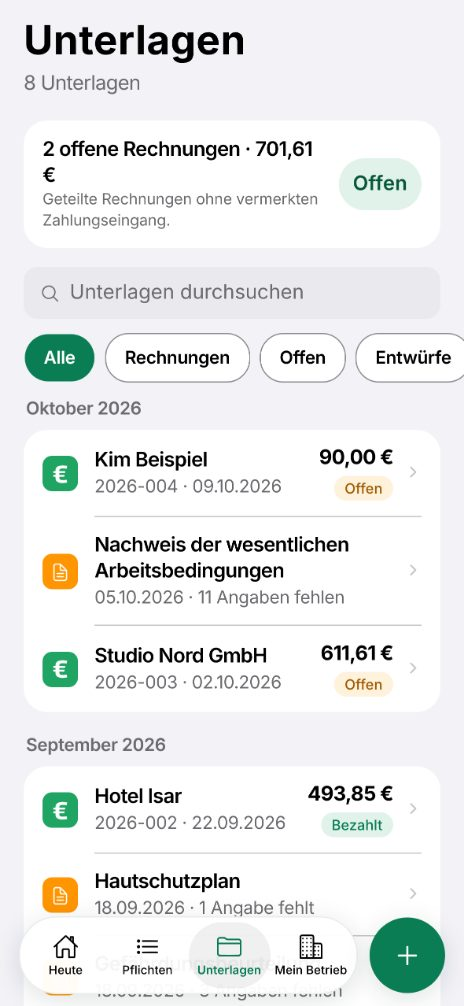
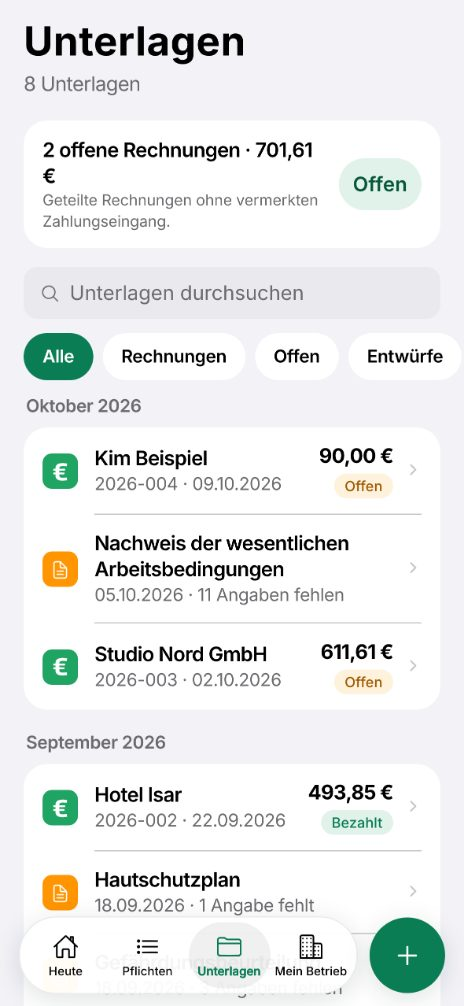
E-140 (2): Felder und Auswahl ohne Rahmen, Karten statt Bühnen, Einführungen wie in Apples Apps, Inter für die Web-Vorschau
Claude-Session: https://claude.ai/code/session_01WbXnSzce2P68GngQY2h6hr

diff --git a/apps/mobile/src/ui/bausteine.tsx b/apps/mobile/src/ui/bausteine.tsx
@@ -1,7 +1,7 @@
 import { Ionicons } from "@expo/vector-icons";
 import * as Haptics from "expo-haptics";
 import { SymbolView, type SymbolViewProps } from "expo-symbols";
-import { useEffect, useState, type ReactNode } from "react";
+import { createContext, useContext, useEffect, useState, type ReactNode } from "react";
 import { AccessibilityInfo, ActivityIndicator, Pressable, Text as RNText, Switch, TextInput, View, type StyleProp, type TextStyle, type ViewStyle } from "react-native";
 import { useSafeAreaInsets } from "react-native-safe-area-context";
 import { T as TEXT } from "../texte";
@@ -141,8 +141,8 @@ export function Fristblatt({ termin, heute, erledigt, groesse = 46 }: { termin: 
 export function Erfolg({ groesse = 64 }: { groesse?: number }) {
   const f = useFarben();
   return (
-    <View accessibilityElementsHidden importantForAccessibility="no-hide-descendants" aria-hidden style={{ width: groesse, height: groesse, borderRadius: groesse / 2, backgroundColor: f.amt, alignItems: "center", justifyContent: "center" }}>
-      <Symbol name="checkmark" groesse={Math.round(groesse * 0.44)} farbe={f.amtText} gewicht="heavy" />
+    <View accessibilityElementsHidden importantForAccessibility="no-hide-descendants" aria-hidden>
+      <Symbol name="checkmark.circle.fill" groesse={groesse} farbe={f.amt} gewicht="regular" />
     </View>
   );
 }
@@ -425,25 +425,34 @@ export function Status({ status, text }: { status: string; text: string }) {
 // ---------------------------------------------------------------- Formulare (E-120)
 
 /** Karte: helle Fläche mit weichem Schatten (dunkel: Haarlinie), für zusammengehörige Zeilen oder ein Formular. */
+/** Liegt ein Element in einer weißen Karte? Felder und Chips wählen danach ihre Füllung (grau in Weiß, weiß auf Grau). */
+const KarteKontext = createContext(false);
+export const useInKarte = () => useContext(KarteKontext);
+
 export function Karte({ children, stil, rahmen }: { children: ReactNode; stil?: StyleProp<ViewStyle>; rahmen?: string }) {
   const f = useFarben();
   return (
-    <View style={[{ backgroundColor: f.blatt, borderRadius: RADIUS.karte, borderWidth: rahmen ? 1.5 : 0, borderColor: rahmen ?? f.linie, paddingHorizontal: 16 }, stil]}>
-      {children}
-    </View>
+    <KarteKontext.Provider value>
+      <View style={[{ backgroundColor: f.blatt, borderRadius: RADIUS.karte, borderWidth: rahmen ? 1.5 : 0, borderColor: rahmen ?? f.linie, paddingHorizontal: 16 }, stil]}>
+        {children}
+      </View>
+    </KarteKontext.Provider>
   );
 }
 
 /** Gemeinsamer Stil für Eingabeflächen (Textfeld, Datum, Auswahlzeile): Rahmen ≥ 3:1, im Fokus Amtsgrün. */
-export function feldRahmen(f: Farben, zustand: { fokus?: boolean; fehler?: boolean } = {}): ViewStyle {
+/**
+ * Eingabefläche wie in iOS: gefüllt, ohne Rahmen (grau in einer Karte, weiß auf grauem Grund); im Fokus und bei
+ * Fehlern ein farbiger Rand. Die Beschriftung steht immer sichtbar darüber (E-140).
+ */
+export function feldRahmen(f: Farben, zustand: { fokus?: boolean; fehler?: boolean; inKarte?: boolean } = {}): ViewStyle {
   return {
     minHeight: 50,
     borderRadius: RADIUS.klein,
-    borderWidth: zustand.fokus || zustand.fehler ? 2 : 1,
-    borderColor: zustand.fehler ? f.frist : zustand.fokus ? f.amt : f.rahmen,
-    // Rahmen wird dicker – Innenabstand gleicht aus, damit der Text nicht springt
-    paddingHorizontal: zustand.fokus || zustand.fehler ? 14 : 15,
-    backgroundColor: f.blatt,
+    borderWidth: 2,
+    borderColor: zustand.fehler ? f.frist : zustand.fokus ? f.amt : "transparent",
+    paddingHorizontal: 14,
+    backgroundColor: zustand.inKarte ? f.flaeche : f.blatt,
   };
 }
 const feldText = (f: Farben): TextStyle => ({ color: f.tinte, ...SCHRIFT.regular, fontSize: GROESSE.basis });
@@ -451,6 +460,7 @@ const feldText = (f: Farben): TextStyle => ({ color: f.tinte, ...SCHRIFT.regular
 /** Beschriftetes Textfeld; die Beschriftung steht darüber und ist mit dem Feld verbunden. */
 export function Feld({ label, wert, aendern, hilfe, fehler, mehrzeilig, ohneLabel, optional, onFocus, onBlur, ...rest }: { label: string; wert: string; aendern: (w: string) => void; hilfe?: string; fehler?: string | null; mehrzeilig?: boolean; ohneLabel?: boolean; optional?: boolean } & Omit<React.ComponentProps<typeof TextInput>, "value" | "onChangeText" | "style">) {
   const f = useFarben();
+  const inKarte = useInKarte();
   const [fokus, setFokus] = useState(false);
   const beispiel = istBeispiel(hilfe, mehrzeilig) && !rest.placeholder;
   const zahlen = rest.keyboardType === "decimal-pad" || rest.keyboardType === "number-pad" || rest.keyboardType === "numbers-and-punctuation" || rest.keyboardType === "phone-pad";
@@ -475,7 +485,7 @@ export function Feld({ label, wert, aendern, hilfe, fehler, mehrzeilig, ohneLabe
           setFokus(false);
           onBlur?.(e);
         }}
-        style={[feldRahmen(f, { fokus, fehler: Boolean(fehler) }), feldText(f), { minHeight: mehrzeilig ? 104 : 50, paddingTop: mehrzeilig ? 13 : 0, paddingBottom: mehrzeilig ? 13 : 0, textAlignVertical: mehrzeilig ? "top" : "center", marginTop: 7 }]}
+        style={[feldRahmen(f, { fokus, fehler: Boolean(fehler), inKarte }), feldText(f), { minHeight: mehrzeilig ? 104 : 50, paddingTop: mehrzeilig ? 13 : 0, paddingBottom: mehrzeilig ? 13 : 0, textAlignVertical: mehrzeilig ? "top" : "center", marginTop: 7 }]}
         {...rest}
       />
       {fehler ? <T v="caption" farbe={f.frist} stil={{ marginTop: 5 }}>{fehler}</T> : null}
@@ -502,6 +512,7 @@ export function DatumFeld({ label, wert, aendern, hilfe, ohneHeute, ohneLabel }:
   const heuteText = TEXT.heute;
   const [text, setText] = useState(textAus(wert));
   const [fokus, setFokus] = useState(false);
+  const inKarte = useInKarte();
   useEffect(() => setText(textAus(wert)), [wert]);
   const heute = new Intl.DateTimeFormat("sv-SE", { timeZone: "Europe/Berlin" }).format(new Date());
   const falsch = text.trim() !== "" && !isoAus(text);
@@ -524,7 +535,7 @@ export function DatumFeld({ label, wert, aendern, hilfe, ohneHeute, ohneLabel }:
           selectionColor={f.amt}
           keyboardType="numbers-and-punctuation"
           inputAccessoryViewID={TASTATUR_FERTIG}
-          style={[feldRahmen(f, { fokus, fehler: falsch }), feldText(f), { flex: 1, minWidth: 0 }]}
+          style={[feldRahmen(f, { fokus, fehler: falsch, inKarte }), feldText(f), { flex: 1, minWidth: 0 }]}
         />
         {ohneHeute ? null : (
           <Pressable accessibilityRole="button" accessibilityLabel={`${label}: ${heuteText}`} onPress={() => aendern(heute)} style={({ pressed }) => ({ minHeight: 50, paddingHorizontal: 15, borderRadius: RADIUS.klein, justifyContent: "center", backgroundColor: f.amtHauch, opacity: pressed ? 0.7 : 1 })}>
@@ -541,6 +552,7 @@ export function DatumFeld({ label, wert, aendern, hilfe, ohneHeute, ohneLabel }:
 /** Chip für Auswahl und Mehrfachauswahl: rund, gewählt in Amtsgrün mit Häkchen (Farbe nie allein). */
 function Chip({ text, an, rolle, onPress, kaestchen }: { text: string; an: boolean; rolle: "radio" | "checkbox"; onPress: () => void; kaestchen?: boolean }) {
   const f = useFarben();
+  const inKarte = useInKarte();
   return (
     <Pressable
       accessibilityRole={rolle}
@@ -552,7 +564,7 @@ function Chip({ text, an, rolle, onPress, kaestchen }: { text: string; an: boole
         if (istIos) void Haptics.selectionAsync();
         onPress();
       }}
-      style={({ pressed }) => ({ minHeight: 40, paddingLeft: kaestchen ? 11 : 16, paddingRight: 16, borderRadius: 20, flexDirection: "row", alignItems: "center", gap: 6, backgroundColor: an ? f.amt : pressed ? f.flaeche : f.blatt, borderWidth: an ? 0 : 1, borderColor: f.rahmen, margin: an ? 1 : 0, flexShrink: 1 })}
+      style={({ pressed }) => ({ minHeight: 40, paddingLeft: kaestchen ? 11 : 16, paddingRight: 16, borderRadius: 20, flexDirection: "row", alignItems: "center", gap: 6, backgroundColor: an ? f.amt : pressed ? f.linie : inKarte ? f.flaeche : f.blatt, flexShrink: 1 })}
     >
       {kaestchen ? <Symbol name={an ? "checkmark.square.fill" : "square"} groesse={16} farbe={an ? f.amtText : f.tinteLeise} /> : null}
       <T v="klein" fett farbe={an ? f.amtText : f.tinte} stil={{ flexShrink: 1 }}>{text}</T>
@@ -603,8 +615,9 @@ function SchalterText({ label, hilfe }: { label: string; hilfe?: string }) {
 /** Rahmen einer Liste zum Auswählen (Auswahl, Bausteine): eine Fläche, Zeilen mit Haarlinie. */
 function ListenRahmen({ label, rolle, children }: { label: string; rolle?: "radiogroup"; children: ReactNode }) {
   const f = useFarben();
+  const inKarte = useInKarte();
   return (
-    <View accessibilityRole={rolle} accessibilityLabel={label} style={{ marginTop: 7, borderWidth: 1, borderColor: f.rahmen, borderRadius: RADIUS.klein, overflow: "hidden", backgroundColor: f.blatt }}>
+    <View accessibilityRole={rolle} accessibilityLabel={label} style={{ marginTop: 7, borderRadius: RADIUS.klein, overflow: "hidden", backgroundColor: inKarte ? f.flaeche : f.blatt }}>
       {children}
     </View>
   );
@@ -668,7 +681,7 @@ export function Auswahl<W extends string>({ label, wert, aendern, optionen, hilf
                 if (istIos) void Haptics.selectionAsync();
                 aendern(o.wert);
               }}
-              style={({ pressed }) => ({ flexDirection: "row", alignItems: "center", gap: 12, minHeight: 50, paddingHorizontal: 14, paddingVertical: 10, borderTopWidth: i ? HAARLINIE : 0, borderColor: f.linie, backgroundColor: an ? f.amtHauch : pressed ? f.flaeche : f.blatt })}
+              style={({ pressed }) => ({ flexDirection: "row", alignItems: "center", gap: 12, minHeight: 50, paddingHorizontal: 14, paddingVertical: 10, borderTopWidth: i ? HAARLINIE : 0, borderColor: f.linie, backgroundColor: an ? f.amtHauch : pressed ? f.linieLeise : "transparent" })}
             >
               <View style={{ width: 20, height: 20, borderRadius: 10, borderWidth: an ? 6 : 1.5, borderColor: an ? f.amt : f.rahmen, backgroundColor: f.blatt }} />
               <T v="klein" fett={an} farbe={an ? f.amtTief : f.tinte} stil={{ flex: 1 }}>{o.text}</T>
@@ -731,7 +744,7 @@ export function BausteinListe({ label, hilfe, werte, aendern, optionen }: { labe
                 if (istIos) void Haptics.selectionAsync();
                 aendern(an ? werte.filter((x) => x !== o.wert) : [...werte, o.wert]);
               }}
-              style={({ pressed }) => ({ flexDirection: "row", gap: 12, paddingHorizontal: 14, paddingVertical: 12, borderTopWidth: i ? HAARLINIE : 0, borderColor: f.linie, backgroundColor: an ? f.amtHauch : pressed ? f.flaeche : f.blatt })}
+              style={({ pressed }) => ({ flexDirection: "row", gap: 12, paddingHorizontal: 14, paddingVertical: 12, borderTopWidth: i ? HAARLINIE : 0, borderColor: f.linie, backgroundColor: an ? f.amtHauch : pressed ? f.linieLeise : "transparent" })}
             >
               <View style={{ paddingTop: 1 }}>
                 <Symbol name={an ? "checkmark.square.fill" : "square"} groesse={19} farbe={an ? f.amt : f.rahmen} />

diff --git a/apps/mobile/src/seiten/Pflichten.tsx b/apps/mobile/src/seiten/Pflichten.tsx
@@ -2,9 +2,9 @@ import { useEffect, useMemo, useState } from "react";
 import { Linking, View } from "react-native";
 import { T as TEXT } from "../texte";
 import { useMeldung } from "../ui/meldung";
-import { Betrag, Fristblatt, Fuss, Hinweis, Karte, Knopf, Motiv, Schalter, SchnellKachel, Symbol, T, TextKnopf, Zeile, tageBis } from "../ui/bausteine";
+import { Betrag, Fristblatt, Fuss, Hinweis, Karte, Knopf, Schalter, SchnellKachel, Symbol, T, TextKnopf, Zeile, tageBis } from "../ui/bausteine";
 import { Unterseite, useNav } from "../ui/navigation";
-import { HAARLINIE, RADIUS, RAND, SCHRIFT, useFarben, weich } from "../ui/thema";
+import { HAARLINIE, RAND, SCHRIFT, useFarben, weich } from "../ui/thema";
 import { KATEGORIE_TITEL, auswertung, beantwortet, dringlichkeit, erinnerungsPlan, fortschritt, frageZu, haken, istErledigt, offeneFragenNachWirkung, type PflichtInfo } from "../pflichten/check";
 import { allesAbsagen, erinnerungenMoeglich, erlaubnisAnfragen, planen } from "../pflichten/erinnerungen";
 import { heute } from "../unterlagen/speicher";
@@ -180,15 +180,15 @@ function PflichtenInhalt() {
   const fertig = (p: PflichtInfo) => istErledigt(p, { erledigt, unterlagen, betrieb });
   return (
     <View>
-      {/* Fortschritt auf der Bühne: große Zahl in Minze, darunter der Balken */}
-      <View style={{ padding: 22, borderRadius: RADIUS.buehne, backgroundColor: f.buehne, gap: 14, overflow: "hidden" }}>
-        <T v="gross" farbe={f.buehneText} accessibilityRole="header">{TEXT.ergebnis_titel(a.gilt.length)}</T>
+      {/* Fortschritt als Karte: Zahl groß, darunter der Balken – wie die Ringe-Übersicht in Fitness */}
+      <Karte stil={{ paddingVertical: 18, gap: 10 }}>
+        <T v="klein" fett leise accessibilityRole="header">{TEXT.ergebnis_titel(a.gilt.length)}</T>
         <View style={{ flexDirection: "row", alignItems: "flex-end", justifyContent: "space-between", gap: 12 }}>
-          <Betrag farbe={f.minze} stil={{ ...SCHRIFT.display, fontSize: 48, lineHeight: 52, letterSpacing: -1.6 }}>{`${fs.prozent} %`}</Betrag>
-          <T v="klein" farbe={f.buehneLeise} stil={{ marginBottom: 8, textAlign: "right", flexShrink: 1 }}>{TEXT.fortschritt_text(fs.fertig, fs.gesamt)}</T>
+          <Betrag farbe={f.amt} stil={{ ...SCHRIFT.bold, fontSize: 40, lineHeight: 46, letterSpacing: 0.2 }}>{`${fs.prozent} %`}</Betrag>
+          <T v="klein" leise stil={{ marginBottom: 7, textAlign: "right", flexShrink: 1 }}>{TEXT.fortschritt_text(fs.fertig, fs.gesamt)}</T>
         </View>
-        <Balken prozent={fs.prozent} grund="rgba(255,255,255,0.14)" farbe={f.minze} />
-      </View>
+        <Balken prozent={fs.prozent} />
+      </Karte>
       <T v="caption" leise stil={{ marginTop: 8, marginLeft: 2 }}>{TEXT.pflichten_quelle}</T>
       <ErinnerungsSchalter />
       {d.jetzt.length ? (
@@ -312,14 +312,14 @@ export function PflichtenSeite() {
 export function Einladung() {
   const nav = useNav();
   const f = useFarben();
-  // die Bühne: die eine dunkle Fläche der App; oben rechts das angeschnittene Motiv, darunter Titel, Text, Knopf
+  // wie die Einstiegskarten in Apples eigenen Apps: weiße Karte, ein Symbol in der Akzentfarbe, Titel, Satz, Knopf
   return (
-    <View style={{ padding: 22, paddingTop: 136, borderRadius: RADIUS.buehne, backgroundColor: f.buehne, gap: 12, overflow: "hidden" }}>
-        <Motiv zeichen="§" groesse={200} farbe={f.minze} stil={{ right: 16, top: -70 }} />
-        <T v="titel" farbe={f.buehneText} accessibilityRole="header" stil={{ maxWidth: 260 }}>{TEXT.pflichten_karte_titel}</T>
-        <T farbe={f.buehneLeise}>{TEXT.pflichten_einladung}</T>
-        <Knopf buehne text={TEXT.pflichten_check_starten} symbol="arrow.right" onPress={() => nav.oeffnen("check", () => <CheckAblauf />, true)} stil={{ marginTop: 6 }} />
-      </View>
+    <Karte stil={{ paddingVertical: 20, gap: 10 }}>
+      <Symbol name="checklist" groesse={30} farbe={f.amt} gewicht="semibold" />
+      <T v="gross" accessibilityRole="header" stil={{ fontSize: 22, lineHeight: 28, marginTop: 4 }}>{TEXT.pflichten_karte_titel}</T>
+      <T v="klein" leise>{TEXT.pflichten_einladung}</T>
+      <Knopf text={TEXT.pflichten_check_starten} onPress={() => nav.oeffnen("check", () => <CheckAblauf />, true)} stil={{ marginTop: 8 }} />
+    </Karte>
   );
 }
 

diff --git a/apps/mobile/src/seiten/Check.tsx b/apps/mobile/src/seiten/Check.tsx
@@ -3,9 +3,9 @@ import { AccessibilityInfo, KeyboardAvoidingView, Platform, ScrollView, View } f
 import { SafeAreaView } from "react-native-safe-area-context";
 import type { Frage } from "@amtlos/i18n";
 import { T as TEXT } from "../texte";
-import { Auswahl, DatumFeld, Fakt, Feld, Fuss, Hinweis, Motiv, Karte, Knopf, KopfKnopf, MehrfachWahl, Erfolg, T, TextKnopf, ZurueckKnopf } from "../ui/bausteine";
+import { Auswahl, DatumFeld, Fakt, Feld, Fuss, Hinweis, Symbol, Karte, Knopf, KopfKnopf, MehrfachWahl, Erfolg, T, TextKnopf, ZurueckKnopf } from "../ui/bausteine";
 import { useNav } from "../ui/navigation";
-import { RADIUS, RAND, ZIEL, istIos, useFarben } from "../ui/thema";
+import { RAND, ZIEL, istIos, useFarben } from "../ui/thema";
 import { CHECK_FELDER, auswertung, beantwortet, checkFragen, zusatzFragen, type Profil } from "../pflichten/check";
 import { heute } from "../unterlagen/speicher";
 import { PflichtZeile } from "./Pflichten";
@@ -146,12 +146,12 @@ export function CheckAblauf({ felder, einleitung = true }: { felder?: string[]; 
         <ScrollView key={i} contentContainerStyle={{ paddingHorizontal: RAND, paddingTop: 12, paddingBottom: 32 }} keyboardShouldPersistTaps="handled">
           {i < 0 ? (
             <View>
-              {/* Bildfläche mit dem §-Motiv – der Auftakt zum Check */}
-              <View style={{ height: 150, borderRadius: RADIUS.buehne, backgroundColor: f.amtHauch, overflow: "hidden" }}>
-                <Motiv zeichen="§" groesse={230} farbe={f.amt} stil={{ right: 24, top: -40 }} />
+              {/* Auftakt wie Apples Einführungsbildschirme: großes Symbol, Titel und Text mittig */}
+              <View style={{ alignItems: "center", paddingTop: 24 }}>
+                <Symbol name="checklist" groesse={64} farbe={f.amt} gewicht="regular" />
+                <T v="titel" accessibilityRole="header" stil={{ marginTop: 22, textAlign: "center" }}>{TEXT.check_einleitung_titel}</T>
+                <T leise stil={{ marginTop: 10, textAlign: "center" }}>{TEXT.check_einleitung_text}</T>
               </View>
-              <T v="titel" accessibilityRole="header" stil={{ marginTop: 22 }}>{TEXT.check_einleitung_titel}</T>
-              <T stil={{ marginTop: 10 }}>{TEXT.check_einleitung_text}</T>
               <View style={{ marginTop: 18 }}>
                 <Hinweis text={TEXT.check_hinweis} />
               </View>

diff --git a/apps/mobile/src/seiten/Pro.tsx b/apps/mobile/src/seiten/Pro.tsx
@@ -1,9 +1,9 @@
 import { useEffect, useState } from "react";
-import { ActivityIndicator, Linking, Pressable, ScrollView, View } from "react-native";
+import { ActivityIndicator, Image, Linking, Pressable, ScrollView, View } from "react-native";
 import { SafeAreaView } from "react-native-safe-area-context";
 import { LINKS } from "../rechtliches";
 import { T as TEXT } from "../texte";
-import { Betrag, Fuss, Hinweis, Karte, Knopf, KopfKnopf, Motiv, Symbol, T, TextKnopf } from "../ui/bausteine";
+import { Betrag, Fuss, Hinweis, Karte, Knopf, KopfKnopf, Symbol, T, TextKnopf } from "../ui/bausteine";
 import { useMeldung } from "../ui/meldung";
 import { useNav } from "../ui/navigation";
 import { HAARLINIE, RADIUS, RAND, schattenStil, useFarben } from "../ui/thema";
@@ -87,10 +87,12 @@ export function ProSeite({ grund }: { grund?: ProFunktion }) {
         <KopfKnopf symbol="xmark" label={TEXT.schliessen} onPress={nav.zurueck} />
       </View>
       <ScrollView contentContainerStyle={{ paddingHorizontal: RAND, paddingBottom: 24 }}>
-        <View style={{ padding: 22, paddingTop: 104, borderRadius: RADIUS.buehne, backgroundColor: f.buehne, overflow: "hidden", gap: 8 }}>
-          <Motiv zeichen="€" groesse={230} farbe={f.minze} stil={{ right: -14, top: -60 }} />
-          <T v="grossTitel" farbe={f.buehneText} accessibilityRole="header">{TEXT.pro_titel}</T>
-          <T farbe={f.buehneLeise} stil={{ maxWidth: 300 }}>{grund ? TEXT.pro_grund[grund](FREI_JE_MONAT) : TEXT.pro_unter}</T>
+        {/* wie Apples eigene Abo-Seiten: App-Symbol, Titel und ein Satz mittig */}
+        <View style={{ alignItems: "center", paddingTop: 8, paddingBottom: 6 }}>
+          {/* eslint-disable-next-line @typescript-eslint/no-require-imports -- Bild aus den Assets */}
+          <Image source={require("../../assets/icon.png")} style={{ width: 84, height: 84, borderRadius: 19 }} accessibilityIgnoresInvertColors />
+          <T v="grossTitel" accessibilityRole="header" stil={{ marginTop: 16, textAlign: "center" }}>{TEXT.pro_titel}</T>
+          <T leise stil={{ marginTop: 6, textAlign: "center", maxWidth: 320 }}>{grund ? TEXT.pro_grund[grund](FREI_JE_MONAT) : TEXT.pro_unter}</T>
         </View>
         <Karte stil={{ marginTop: 16 }}>
           {/* der Grund, aus dem der Bezahlschirm aufging, steht oben */}

diff --git a/apps/mobile/src/ui/auswahlseite.tsx b/apps/mobile/src/ui/auswahlseite.tsx
@@ -2,7 +2,7 @@ import { useState } from "react";
 import { Pressable, View } from "react-native";
 import * as Haptics from "expo-haptics";
 import { T as TEXT } from "../texte";
-import { FeldKopf, Karte, Suchfeld, Symbol, T, feldRahmen } from "./bausteine";
+import { FeldKopf, Karte, Suchfeld, Symbol, T, feldRahmen, useInKarte } from "./bausteine";
 import { Unterseite, useNav } from "./navigation";
 import { HAARLINIE, istIos, useFarben } from "./thema";
 import { Inhalt } from "../seiten/gemeinsam";
@@ -67,6 +67,7 @@ export function AuswahlSeite<W extends string>({ titel, wert, optionen, aendern 
 export function AuswahlZeile<W extends string>({ label, wert, optionen, aendern, hilfe, platzhalter }: { label: string; wert: W | null; optionen: Option<W>[]; aendern: (w: W) => void; hilfe?: string; platzhalter?: string }) {
   const f = useFarben();
   const nav = useNav();
+  const inKarte = useInKarte();
   const text = optionen.find((o) => o.wert === wert)?.text;
   return (
     <View style={{ marginTop: 20 }}>
@@ -76,7 +77,7 @@ export function AuswahlZeile<W extends string>({ label, wert, optionen, aendern,
         accessibilityLabel={label}
         accessibilityValue={{ text: text ?? platzhalter ?? TEXT.auswaehlen }}
         onPress={() => nav.oeffnen(`auswahl-${label}`, () => <AuswahlSeite titel={label} wert={wert} optionen={optionen} aendern={aendern} />)}
-        style={({ pressed }) => ({ ...feldRahmen(f), marginTop: 7, paddingRight: 12, flexDirection: "row", alignItems: "center", gap: 8, backgroundColor: pressed ? f.flaeche : f.blatt })}
+        style={({ pressed }) => ({ ...feldRahmen(f, { inKarte }), marginTop: 7, paddingRight: 12, flexDirection: "row", alignItems: "center", gap: 8, backgroundColor: pressed ? f.linie : inKarte ? f.flaeche : f.blatt })}
       >
         <T stil={{ flex: 1 }} leise={!text}>{text ?? platzhalter ?? TEXT.auswaehlen}</T>
         <Symbol name="chevron.right" groesse={14} farbe={f.zeiger} gewicht="semibold" />

diff --git a/apps/mobile/src/ui/thema.ts b/apps/mobile/src/ui/thema.ts
@@ -79,12 +79,14 @@ const DUNKEL: typeof HELL = {
 export type Farben = typeof HELL;
 
 /** Schrift (E-140): die Systemschrift (SF Pro auf dem iPhone) – Gewicht statt eigener Schnitte. */
+// Web-Vorschau (Rundgänge, Store-Bilder): Inter als Ersatz für die Systemschrift, die es dort nicht gibt
+const web = Platform.OS === "web";
 export const SCHRIFT = {
-  regular: { fontWeight: "400" },
-  mittel: { fontWeight: "500" },
-  halb: { fontWeight: "600" },
-  bold: { fontWeight: "700" },
-  display: { fontWeight: "800" },
+  regular: { fontWeight: "400", ...(web ? { fontFamily: "Inter_400Regular" } : null) },
+  mittel: { fontWeight: "500", ...(web ? { fontFamily: "Inter_500Medium" } : null) },
+  halb: { fontWeight: "600", ...(web ? { fontFamily: "Inter_600SemiBold" } : null) },
+  bold: { fontWeight: "700", ...(web ? { fontFamily: "Inter_700Bold" } : null) },
+  display: { fontWeight: "800", ...(web ? { fontFamily: "Inter_800ExtraBold" } : null) },
 } as const;
 /** iOS-Textstile: largeTitle 34, title1 28, title3 20, body 17, subheadline 15, footnote 13, caption 11 */
 export const GROESSE = { mini: 11, caption: 13, klein: 15, basis: 17, gross: 20, titel: 28, grossTitel: 34, blatt: 38 } as const;

diff --git a/apps/mobile/src/App.tsx b/apps/mobile/src/App.tsx
@@ -14,6 +14,7 @@ import * as Haptics from "expo-haptics";
 import { T as TEXT } from "./texte";
 import { Kachel, Karte, Knopf, Symbol, T, TextKnopf } from "./ui/bausteine";
 import { MeldungAnbieter } from "./ui/meldung";
+import { useSchrift } from "./ui/schrift";
 import { entsperren } from "./unterlagen/sperre";
 import { Stapel, useNav, type Nav } from "./ui/navigation";
 import { HAARLINIE, TASTATUR_FERTIG, istIos, schattenStil, useFarben } from "./ui/thema";
@@ -236,7 +237,8 @@ function TastaturLeiste() {
 
 export default function App() {
   const dunkel = useColorScheme() === "dark";
-  // Systemschrift (SF Pro) – nichts zu laden (E-140)
+  // Systemschrift (SF Pro) auf dem iPhone; in der Web-Vorschau Inter (E-140)
+  useSchrift();
   return (
     <SafeAreaProvider>
       <AmtlosAnbieter>

diff --git a/apps/mobile/src/ui/schrift.web.ts b/apps/mobile/src/ui/schrift.web.ts
@@ -1,0 +1,7 @@
+import { Inter_400Regular, Inter_500Medium, Inter_600SemiBold, Inter_700Bold, Inter_800ExtraBold, useFonts } from "@expo-google-fonts/inter";
+
+/** Web-Vorschau: Inter (OFL 1.1) als Ersatz für SF Pro, damit Rundgänge und Store-Bilder der App auf dem iPhone ähneln. */
+export function useSchrift(): boolean {
+  const [da] = useFonts({ Inter_400Regular, Inter_500Medium, Inter_600SemiBold, Inter_700Bold, Inter_800ExtraBold });
+  return da;
+}

diff --git a/apps/mobile/src/ui/schrift.ts b/apps/mobile/src/ui/schrift.ts
@@ -1,0 +1,4 @@
+/** Auf dem iPhone die Systemschrift (SF Pro) – nichts zu laden. */
+export function useSchrift(): boolean {
+  return true;
+}

diff --git a/ENTSCHEIDUNGEN.md b/ENTSCHEIDUNGEN.md
@@ -791,6 +791,12 @@ Status: **angenommen** (vom Product Owner bestätigt) · **vorgeschlagen** (wart
 - **Farben:** Grund `#f2f2f7`, Karten Weiß, Nebentext `#6c6c70` (≥ 4,5:1), Trennlinien `#c6c6c8`. Dunkel: Schwarz mit Karten `#1c1c1e`. Amtsgrün bleibt Akzentfarbe, Bühne Dunkelgrün mit Minze.
 - **Symbole:** Listenzeilen tragen wieder Symbole, als gefüllte Quadrate mit weißem Zeichen wie in den Einstellungen (Grün, Blau, Indigo, Orange, Rot, Grau).
 - **Tab-Leiste:** schwebende Kapsel mit Glas (iOS) bzw. fast deckend (Web). Der aktive Tab ist mit einer Pille hinterlegt, rechts daneben sitzt der runde „+“-Knopf.
+- **Zweiter Durchgang:** Rückmeldung des Gründers: „überhaupt nicht clean und nicht wie ein natürlicher Teil des iPhones“.
+  - Eingabefelder gefüllt und ohne Rahmen wie in iOS: grau in Karten, weiß auf grauem Grund. Im Fokus bzw. bei Fehlern erscheint ein farbiger Rand.
+  - Chips und Auswahllisten ohne Rahmen.
+  - Die dunklen Bühnen mit §/€ entfallen in der App. Die Einladung ist eine weiße Karte mit Symbol, Titel, Satz und Knopf. Der Fortschritt steht in einer Karte. Der Check beginnt mit einem großen Symbol mittig, die Pro-Seite mit dem App-Symbol mittig (wie Apples Abo-Seiten).
+  - „Geschafft“ als `checkmark.circle.fill`.
+  - Die Web-Vorschau (Rundgänge, Store-Bilder) nutzt Inter als Ersatz für SF Pro; auf dem iPhone bleibt die Systemschrift.
 - **Geprüft:** Rundgang hell und dunkel, Unit-Tests, Store-Bilder neu. Wie die Systemschrift und das Glas wirken, zeigt nur ein echtes iPhone (→ T-82); der Web-Export nutzt eine Ersatzschrift.
 
 ---
